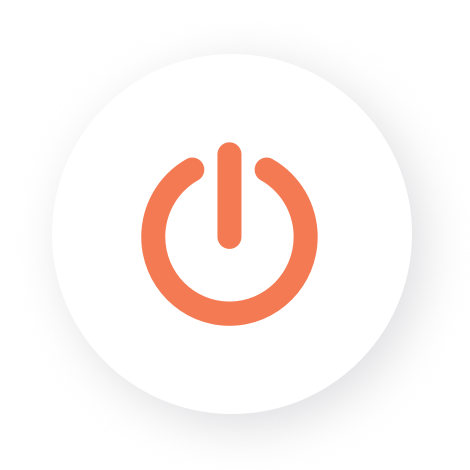
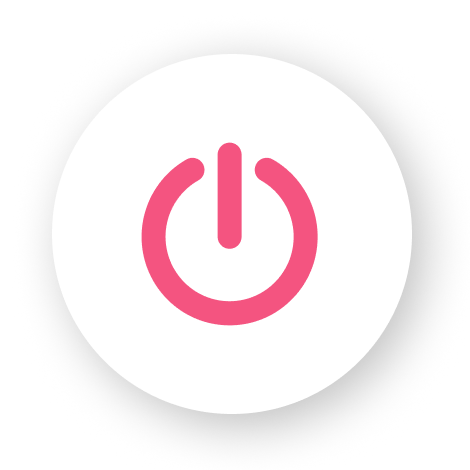
[*] made switch orange only while connecting/disconnecting. added switch sources issues prevention

Changed region(s): [[0.2979, 0.2979, 0.6851, 0.7149]]

diff --git a/vpn/qml/widgets/dapqml-widgets-asset/brand/KelVPN/style.css b/vpn/qml/widgets/dapqml-widgets-asset/brand/KelVPN/style.css
@@ -24,6 +24,7 @@
     sett-hover-background: "#F7F7F7";
     switch-bg-on:               "qrc:/light/switch/bg_on.png";
     switch-bg-off:              "qrc:/light/switch/bg_off.png";
+    switch-bg-conn:             "qrc:/light/switch/bg_conn.png";
     switch-toggle-on:           "qrc:/light/switch/toggle_on.png";
     switch-toggle-off:          "qrc:/light/switch/toggle_off.png";
     button-frame:               "qrc:/light/btn_server_bg.png";
@@ -102,6 +103,7 @@
     sett-hover-background: "#5A5A5A";
     switch-bg-on:               "qrc:/dark/switch/bg_on.png";
     switch-bg-off:              "qrc:/dark/switch/bg_off.png";
+    switch-bg-conn:             "qrc:/dark/switch/bg_conn.png";
     switch-toggle-on:           "qrc:/dark/switch/toggle_on.png";
     switch-toggle-off:          "qrc:/dark/switch/toggle_off.png";
     button-frame:               "qrc:/dark/btn_server_bg.png";
@@ -231,6 +233,11 @@
 .switch-bg-on
 {
     qproperty-scaledPixmap: "@switch-bg-on";
+}
+
+.switch-bg-conn
+{
+    qproperty-scaledPixmap: "@switch-bg-conn";
 }
 
 .switch-toggle-off

diff --git a/vpn/qml/widgets/dapqml-widgets/DapQmlSwitch.qml b/vpn/qml/widgets/dapqml-widgets/DapQmlSwitch.qml
@@ -135,6 +135,14 @@ Item {
             qss: "switch-bg-off"
 
             Component.onCompleted: ctl.setBackground(this)
+
+            DapQmlLabel {
+                id: bgConn
+                anchors.fill: parent
+                z: 1
+                qss: "switch-bg-conn"
+                visible: root.loading
+            }
         }
 
         /****************************************//**
@@ -144,7 +152,7 @@ Item {
         DapQmlLabel {
             id: tgl
             y: 0
-            z: 1
+            z: 5
             width: root.height
             height: root.height
             qss: "switch-toggle-off"

diff --git a/vpn/qml/forms/dapqml-forms/QuiDashboardForm.qml b/vpn/qml/forms/dapqml-forms/QuiDashboardForm.qml
@@ -96,7 +96,7 @@ Item {
         if (a_status)
         {
             indicator.qss   = "dashboard-status-icon ic_online";
-            statusLabel.qss = "dashboard-title c-dashboard-accent"; // "dashboard-title c-brand";
+            statusLabel.qss = "dashboard-title c-brand";
         }
         else
         {
